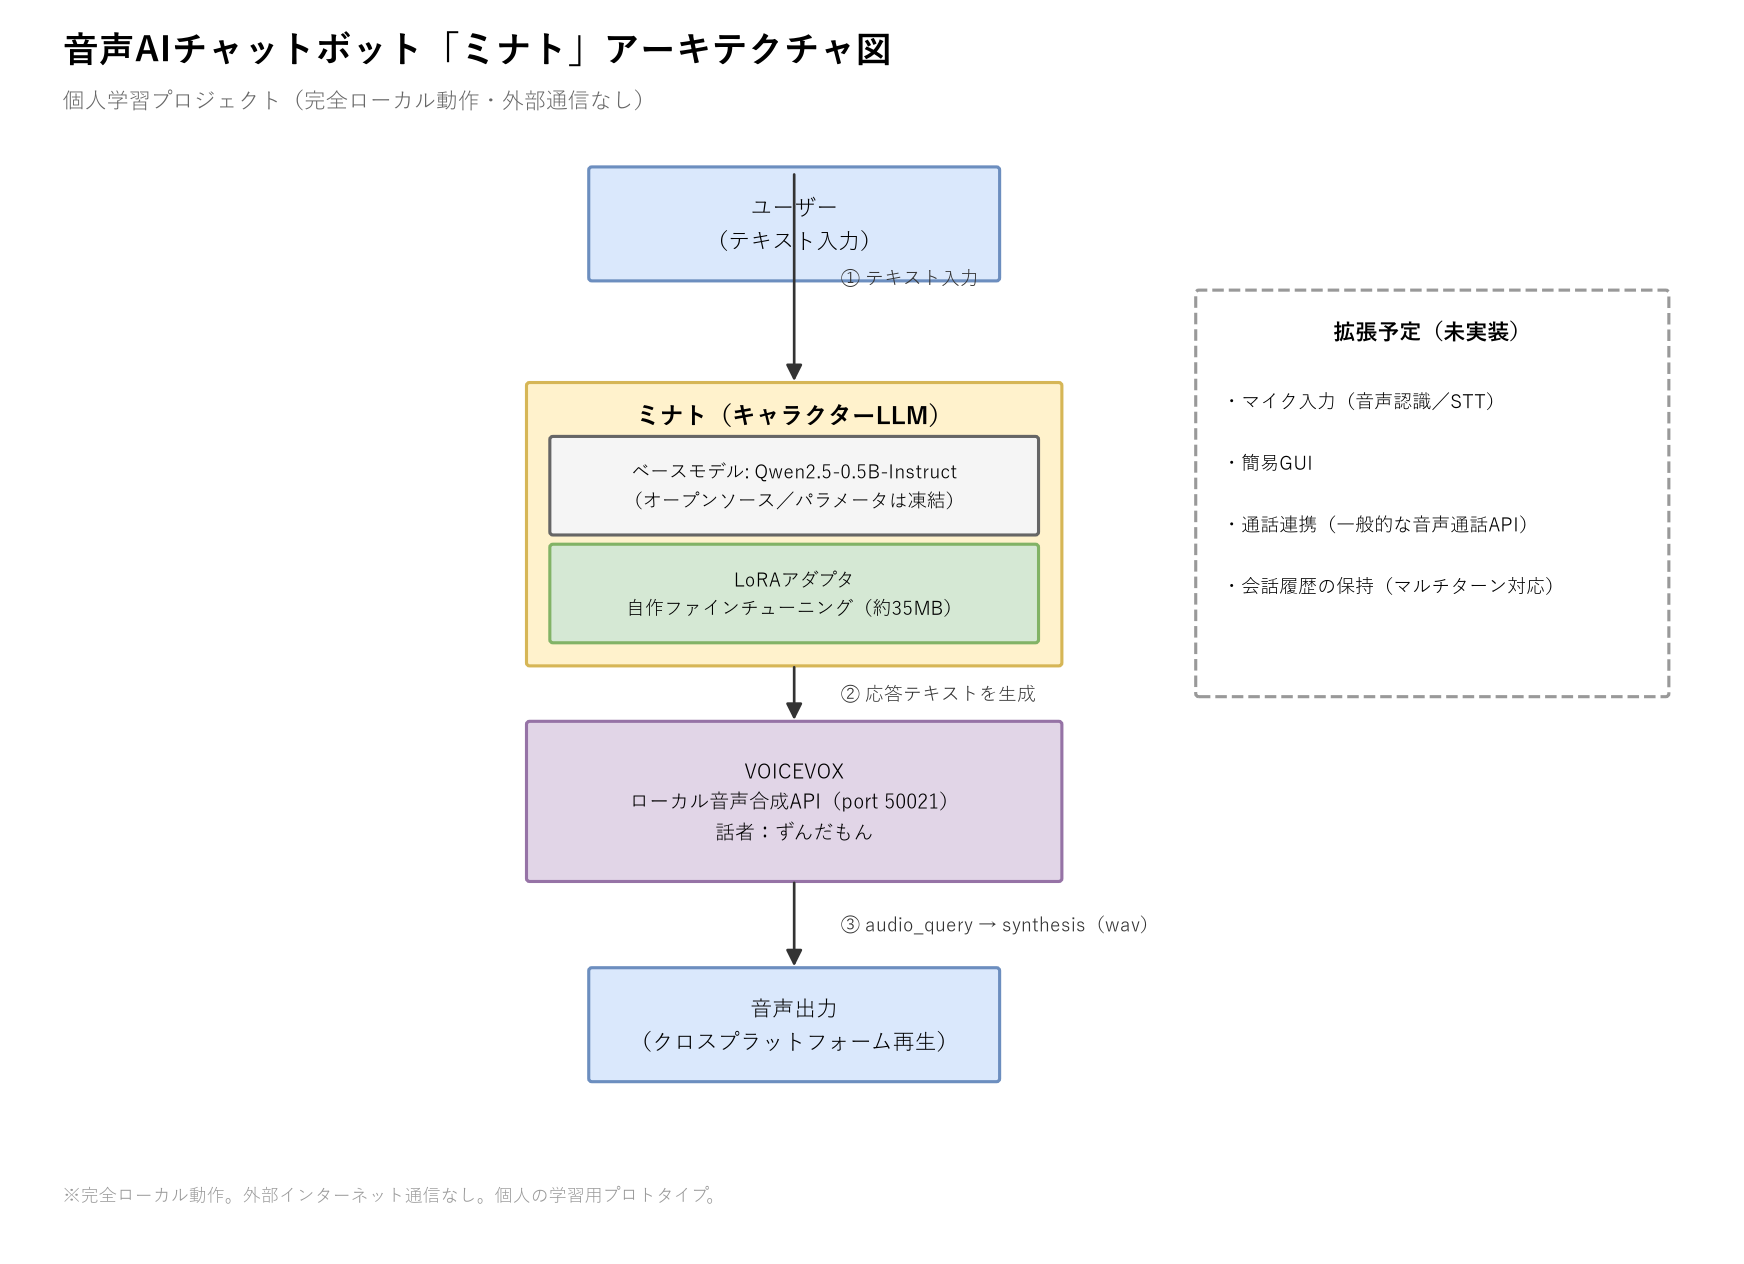
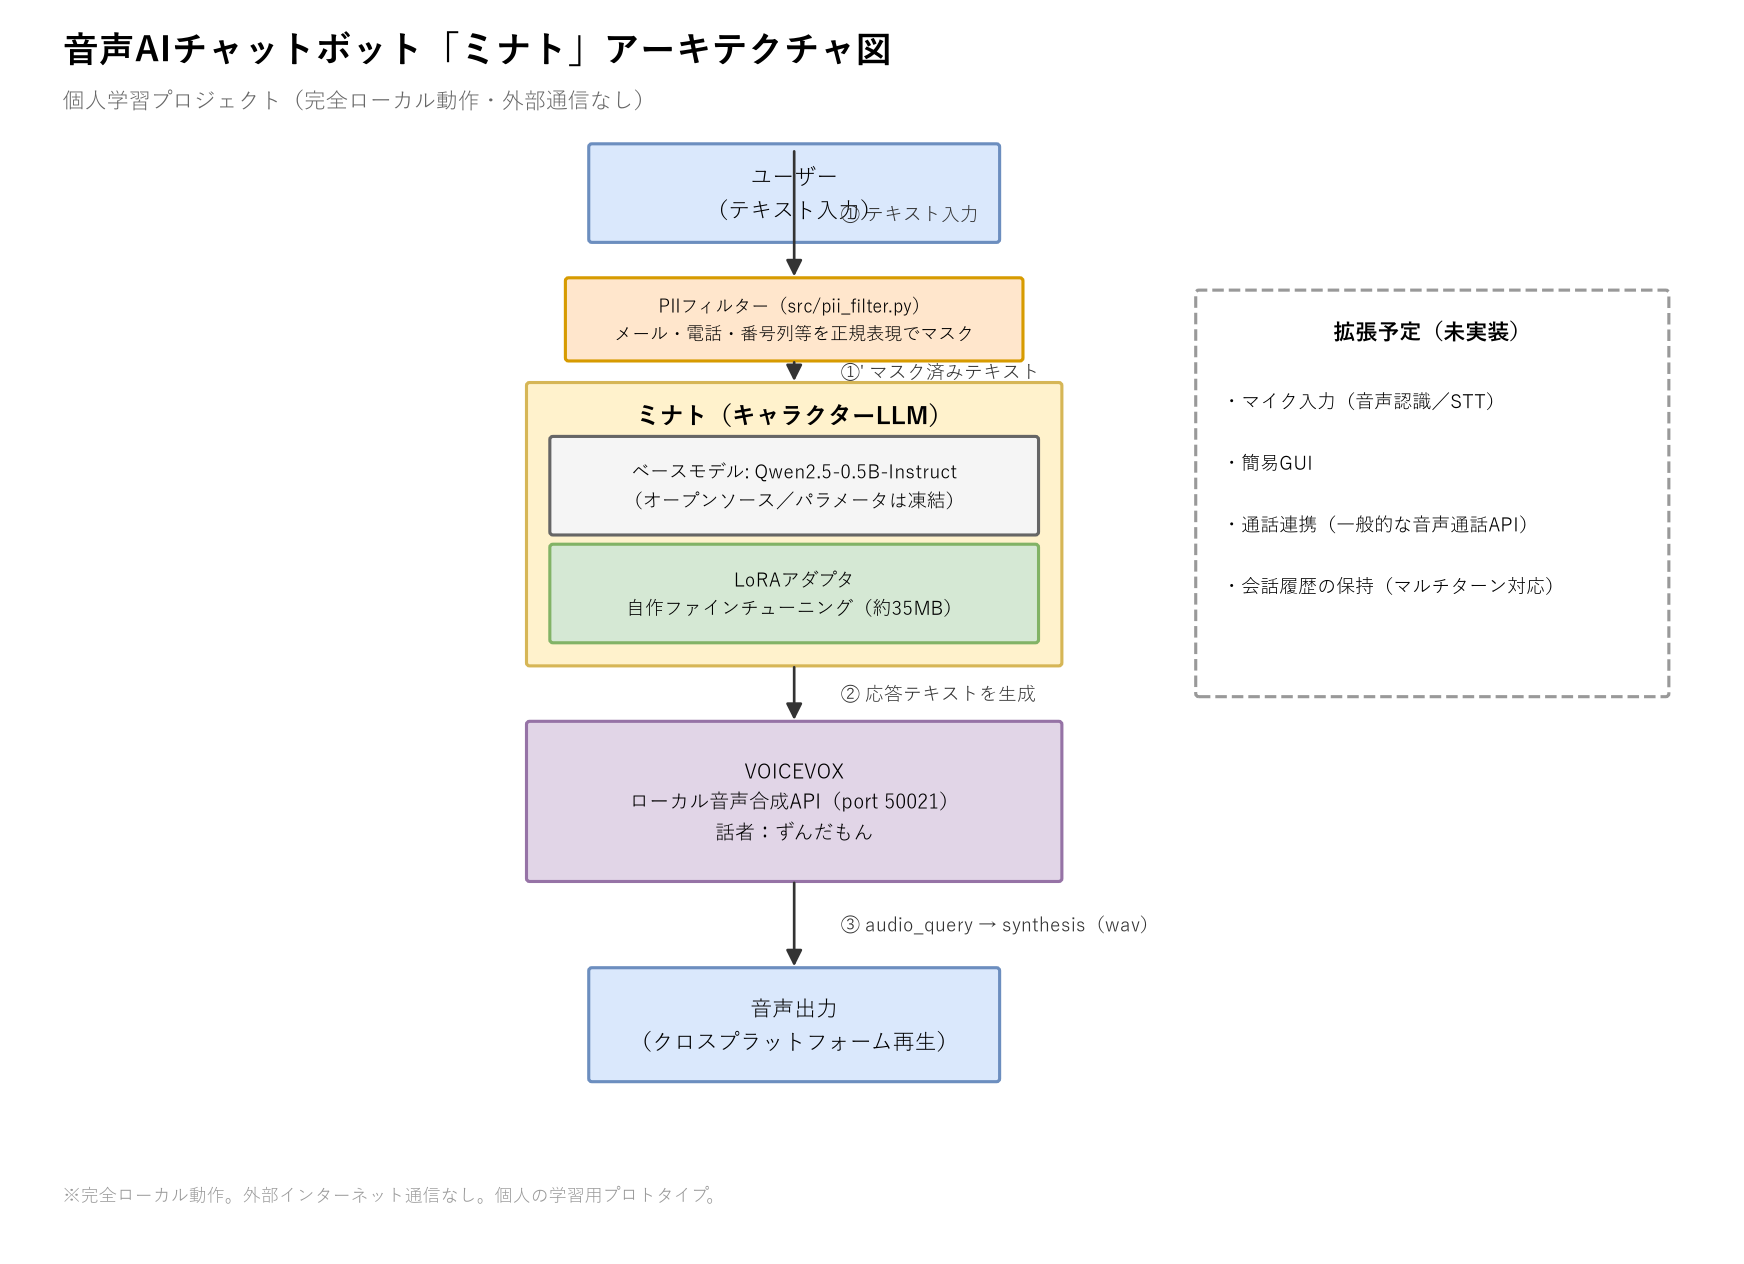
Add 3-layer PII guardrails: runtime input masking, CI scan gate, pre-commit hook
- src/pii_filter.py: mask emails/phones/digit-runs/postal codes before text
  reaches the LLM (both talk and api modes)
- scripts/check_pii.py: repo scanner with generic patterns + out-of-repo
  denylist (PII_DENYLIST secret / gitignored .pii-denylist.txt)
- CI: new pii-check job; pytest step for the filter's unit tests
- Fix: use digit-boundary lookarounds instead of \b (kanji/kana are word
  chars in Python re, so \b fails at Japanese-text boundaries)
- Architecture diagram updated with the new filter layer

Changed region(s): [[0.3096, 0.0926, 0.5883, 0.3085]]

diff --git a/scripts/check_pii.py b/scripts/check_pii.py
@@ -1,0 +1,115 @@
+"""
+Repository PII scanner — used by both pre-commit (changed files) and CI (--all).
+
+Two detection layers:
+  1. Generic structured-PII patterns (real emails, JP phone numbers, long digit
+     runs). Known-safe addresses (noreply / example.com) are allowlisted.
+  2. A personal-name denylist that is deliberately NOT stored in this public
+     repo (that would itself leak the PII). Sources, in priority order:
+       - env var PII_DENYLIST   (comma-separated terms; set as a GitHub Actions
+         secret so it is available in CI but never visible in the repo/logs)
+       - .pii-denylist.txt      (one term per line; gitignored, each
+         contributor keeps their own local copy)
+
+Findings are reported as  path:line  [label]  only — the matched text itself
+is never printed, so the scanner cannot leak what it finds.
+
+Exit code: 0 = clean, 1 = findings (blocks commit / fails CI).
+"""
+import os
+import re
+import subprocess
+import sys
+
+REPO_ROOT = os.path.dirname(os.path.dirname(os.path.abspath(__file__)))
+
+# Files the scanner must not scan: its own sources / tests contain pattern
+# examples by necessity, and model artifacts are binary.
+EXCLUDE_PREFIXES = ("out/", "tests/", ".git/")
+EXCLUDE_FILES = {"scripts/check_pii.py", "src/pii_filter.py", ".pre-commit-config.yaml"}
+EXCLUDE_SUFFIXES = (".safetensors", ".png", ".bin", ".ico", ".wav", ".pyc")
+
+EMAIL_ALLOWLIST = re.compile(
+    r"@(users\.noreply\.github\.com|example\.(com|org|net)|localhost)\b", re.IGNORECASE
+)
+
+# Digit-boundary lookarounds instead of \b: kanji/kana count as word chars in
+# Python's re, so \b silently fails to match at Japanese-text/digit boundaries.
+GENERIC_RULES: list[tuple[str, re.Pattern]] = [
+    ("email", re.compile(r"[A-Za-z0-9._%+-]+@[A-Za-z0-9.-]+\.[A-Za-z]{2,}")),
+    ("jp-phone", re.compile(r"(?<!\d)0\d{1,3}[-ー‐ ]\d{1,4}[-ー‐ ]\d{4}(?!\d)")),
+    ("long-digit-run", re.compile(r"(?<!\d)\d{4}[ -]\d{4}[ -]\d{4}(?:[ -]\d{4})?(?!\d)")),
+]
+
+
+def load_denylist() -> list[str]:
+    terms: list[str] = []
+    env = os.environ.get("PII_DENYLIST", "")
+    terms += [t.strip() for t in env.replace("\n", ",").split(",") if t.strip()]
+    local = os.path.join(REPO_ROOT, ".pii-denylist.txt")
+    if os.path.exists(local):
+        with open(local, encoding="utf-8") as f:
+            terms += [line.strip() for line in f if line.strip() and not line.startswith("#")]
+    return terms
+
+
+def iter_target_files(args: list[str]) -> list[str]:
+    if "--all" in args:
+        out = subprocess.run(
+            ["git", "ls-files"], capture_output=True, text=True, cwd=REPO_ROOT, check=True
+        ).stdout
+        files = out.splitlines()
+    else:
+        files = args
+    result = []
+    for f in files:
+        rel = os.path.relpath(f, REPO_ROOT) if os.path.isabs(f) else f
+        rel = rel.replace("\\", "/")
+        if rel.startswith(EXCLUDE_PREFIXES) or rel in EXCLUDE_FILES or rel.endswith(EXCLUDE_SUFFIXES):
+            continue
+        result.append(rel)
+    return result
+
+
+def scan_file(rel_path: str, denylist: list[str]) -> list[str]:
+    findings = []
+    path = os.path.join(REPO_ROOT, rel_path)
+    try:
+        with open(path, encoding="utf-8", errors="ignore") as f:
+            lines = f.readlines()
+    except (OSError, UnicodeError):
+        return findings
+    lowered_terms = [t.lower() for t in denylist]
+    for i, line in enumerate(lines, 1):
+        for label, pattern in GENERIC_RULES:
+            for m in pattern.finditer(line):
+                if label == "email" and EMAIL_ALLOWLIST.search(m.group(0)):
+                    continue
+                findings.append(f"{rel_path}:{i}  [{label}]")
+        low = line.lower()
+        for term in lowered_terms:
+            if term in low:
+                findings.append(f"{rel_path}:{i}  [denylist]")
+    return findings
+
+
+def main() -> int:
+    args = sys.argv[1:]
+    denylist = load_denylist()
+    if "--all" in args and not denylist:
+        print("note: no denylist loaded (PII_DENYLIST unset and no .pii-denylist.txt) "
+              "— running generic patterns only")
+    all_findings: list[str] = []
+    for rel in iter_target_files(args):
+        all_findings += scan_file(rel, denylist)
+    if all_findings:
+        print("PII scan FAILED — remove or mask the following before committing:")
+        for f in sorted(set(all_findings)):
+            print("  " + f)
+        return 1
+    print("PII scan passed.")
+    return 0
+
+
+if __name__ == "__main__":
+    sys.exit(main())

diff --git a/tests/test_pii_filter.py b/tests/test_pii_filter.py
@@ -1,0 +1,59 @@
+import os
+import sys
+
+sys.path.insert(0, os.path.join(os.path.dirname(os.path.dirname(os.path.abspath(__file__))), "src"))
+
+from pii_filter import mask_pii  # noqa: E402
+
+
+def test_email_masked():
+    masked, found = mask_pii("連絡先は [email redacted] です")
+    assert "[email redacted]" not in masked
+    assert "[メールアドレス]" in masked
+    assert "メールアドレス" in found
+
+
+def test_phone_masked():
+    masked, found = mask_pii("電話は090-1234-5678にください")
+    assert "090-1234-5678" not in masked
+    assert "[電話番号]" in masked
+
+
+def test_phone_with_spaces_masked():
+    masked, _ = mask_pii("固定は03 1234 5678です")
+    assert "1234" not in masked
+
+
+def test_twelve_digit_number_masked():
+    masked, found = mask_pii("番号は 1234 5678 9012 です")
+    assert "9012" not in masked
+    assert "12桁の番号" in found
+
+
+def test_card_number_masked_as_card_not_partial():
+    masked, found = mask_pii("カードは 4111 1111 1111 1111")
+    assert "1111" not in masked
+    assert "カード番号" in found
+
+
+def test_postal_code_masked():
+    masked, _ = mask_pii("住所は〒160-0023 東京都新宿区")
+    assert "160-0023" not in masked
+
+
+def test_clean_text_unchanged():
+    text = "今日はいい天気ですね。VOICEVOXのポートは50021です。"
+    masked, found = mask_pii(text)
+    assert masked == text
+    assert found == []
+
+
+def test_version_numbers_not_masked():
+    text = "torch 2.6.0 と transformers 5.12.1 を使う"
+    masked, _ = mask_pii(text)
+    assert masked == text
+
+
+def test_multiple_pii_types():
+    masked, found = mask_pii("[email redacted] へ連絡、電話は0312345678")
+    assert len(found) == 2

diff --git a/src/pii_filter.py b/src/pii_filter.py
@@ -1,0 +1,39 @@
+"""
+Regex-based PII masking applied to every user input BEFORE it reaches the LLM.
+
+Design notes:
+  - Pattern order matters: longer / more specific patterns run first so that a
+    16-digit card number is not partially consumed by the 12-digit rule, and a
+    phone number is not mislabeled as a postal code.
+  - This is a lightweight guard for a hobby project, not a compliance-grade
+    redactor: it catches *structured* PII (emails, phone numbers, long digit
+    sequences, postal codes). Free-form names cannot be reliably detected by
+    regex and are out of scope here (see CONTRIBUTING.md for the repo-level
+    denylist that covers that gap at CI time).
+"""
+import re
+
+# (label, pattern) — evaluated in order, each match replaced with [label].
+# NOTE: \b does NOT work as a digit boundary in Japanese text (kanji/kana are
+# word characters in Python's re), so digit-boundary lookarounds are used.
+_RULES: list[tuple[str, re.Pattern]] = [
+    ("メールアドレス", re.compile(r"[A-Za-z0-9._%+-]+@[A-Za-z0-9.-]+\.[A-Za-z]{2,}")),
+    ("カード番号", re.compile(r"(?<!\d)\d{4}[ -]?\d{4}[ -]?\d{4}[ -]?\d{4}(?!\d)")),
+    ("12桁の番号", re.compile(r"(?<!\d)\d{4}[ -]?\d{4}[ -]?\d{4}(?!\d)")),  # マイナンバー等
+    ("電話番号", re.compile(r"(?<!\d)0\d{1,3}[-ー‐ ]?\d{1,4}[-ー‐ ]?\d{4}(?!\d)")),
+    ("郵便番号", re.compile(r"〒\s?\d{3}[-ー‐]\d{4}|(?<!\d)\d{3}[-ー‐]\d{4}(?!\d)")),
+]
+
+
+def mask_pii(text: str) -> tuple[str, list[str]]:
+    """Return (masked_text, list_of_detected_labels).
+
+    The label list is for user feedback ("masked an email address") and never
+    contains the matched value itself.
+    """
+    found: list[str] = []
+    for label, pattern in _RULES:
+        if pattern.search(text):
+            found.append(label)
+            text = pattern.sub(f"[{label}]", text)
+    return text, found

diff --git a/src/api.py b/src/api.py
@@ -24,6 +24,7 @@ import requests  # noqa: E402
 import torch  # noqa: E402
 from flask import Flask, Response, jsonify, request  # noqa: E402
 from peft import PeftModel  # noqa: E402
+from pii_filter import mask_pii  # noqa: E402
 from transformers import AutoModelForCausalLM, AutoTokenizer  # noqa: E402
 
 BASE_MODEL = "Qwen/Qwen2.5-0.5B-Instruct"
@@ -78,13 +79,16 @@ def chat():
     if not text:
         return jsonify({"error": "text is required"}), 400
 
+    # PII is masked BEFORE the text reaches the LLM (and thus before any
+    # downstream logging or synthesis can see it).
+    text, pii_found = mask_pii(text)
+
     reply = generate_reply(text)
     wav = synthesize(reply, SPEAKER)
-    return Response(
-        wav,
-        mimetype="audio/wav",
-        headers={"X-Minato-Reply-Text": quote(reply)},
-    )
+    headers = {"X-Minato-Reply-Text": quote(reply)}
+    if pii_found:
+        headers["X-Minato-PII-Masked"] = quote(",".join(pii_found))
+    return Response(wav, mimetype="audio/wav", headers=headers)
 
 
 if __name__ == "__main__":

diff --git a/architecture/generate_architecture_diagram.py b/architecture/generate_architecture_diagram.py
@@ -15,6 +15,7 @@ OUT = sys.argv[1] if len(sys.argv) > 1 else "minato_architecture.png"
 
 COLORS = {
     "io": ("#DAE8FC", "#6C8EBF"),
+    "guard": ("#FFE6CC", "#D79B00"),
     "llm_box": ("#FFF2CC", "#D6B656"),
     "base": ("#F5F5F5", "#666666"),
     "lora": ("#D5E8D4", "#82B366"),
@@ -53,10 +54,12 @@ def main():
     ax.text(0.3, 7.4, "個人学習プロジェクト（完全ローカル動作・外部通信なし）", fontsize=10, color="#666666")
 
     fill, edge = COLORS["io"]
-    _, user_bottom = box(ax, (3.7, 6.3), 2.6, 0.7, "ユーザー\n（テキスト入力）", fill, edge)
+    _, user_bottom = box(ax, (3.7, 6.55), 2.6, 0.6, "ユーザー\n（テキスト入力）", fill, edge)
+
+    fill, edge = COLORS["guard"]
+    box(ax, (3.55, 5.78), 2.9, 0.5, "PIIフィルター（src/pii_filter.py）\nメール・電話・番号列等を正規表現でマスク", fill, edge, fontsize=8)
 
     fill, edge = COLORS["llm_box"]
-    llm_top = (5.0, 5.6)
     box(ax, (3.3, 3.8), 3.4, 1.8, "", fill, edge)
     ax.text(5.0, 5.35, "ミナト（キャラクターLLM）", fontsize=11, fontweight="bold", ha="center")
 
@@ -72,7 +75,8 @@ def main():
     fill, edge = COLORS["io"]
     _, out_top = box(ax, (3.7, 1.1), 2.6, 0.7, "音声出力\n（クロスプラットフォーム再生）", fill, edge)
 
-    arrow(ax, user_bottom, (5.0, 5.6), "① テキスト入力")
+    arrow(ax, user_bottom, (5.0, 6.28), "① テキスト入力")
+    arrow(ax, (5.0, 5.78), (5.0, 5.6), "①' マスク済みテキスト")
     arrow(ax, (5.0, 3.8), (5.0, 3.4), "② 応答テキストを生成")
     arrow(ax, (5.0, 2.4), (5.0, 1.8), "③ audio_query → synthesis（wav）")
 

diff --git a/src/minato_talk.py b/src/minato_talk.py
@@ -29,6 +29,7 @@ import soundfile as sf  # noqa: E402
 import sounddevice as sd  # noqa: E402
 import torch  # noqa: E402
 from peft import PeftModel  # noqa: E402
+from pii_filter import mask_pii  # noqa: E402
 from transformers import AutoModelForCausalLM, AutoTokenizer  # noqa: E402
 
 BASE_MODEL = "Qwen/Qwen2.5-0.5B-Instruct"
@@ -113,6 +114,9 @@ def main():
             break
         if not user_text:
             continue
+        user_text, pii_found = mask_pii(user_text)
+        if pii_found:
+            print(f"（入力内の {'/'.join(pii_found)} をマスクしました）")
         reply = generate_reply(tok, model, user_text)
         print(f"ミナト: {reply}")
         synthesize_and_play(reply, args.speaker)

diff --git a/CONTRIBUTING.md b/CONTRIBUTING.md
@@ -13,6 +13,22 @@
   git config user.email "<GitHubID>+<username>@users.noreply.github.com"
   ```
 
+### PIIガード（3層・自動）
+
+| 層 | 仕組み | 強制力 |
+|---|---|---|
+| ランタイム | `src/pii_filter.py` がチャット入力のメール/電話/番号列等をLLMに渡る前にマスク | コード組込み（常時） |
+| CI | `pii-check` ジョブがリポジトリ全体をスキャン。検出時はマージ不可 | ルールセットで強制 |
+| pre-commit | コミット時にローカルで同じスキャンを実行（早期警告） | 要インストール（下記） |
+
+**pre-commitのセットアップ（初回のみ・推奨）:**
+```bash
+pip install -r requirements-dev.txt
+pre-commit install
+```
+
+**自分の名前を検出対象に足す:** リポジトリ直下に `.pii-denylist.txt`（gitignore済み）を作り、1行1語で自分の本名・ハンドル名を書いてください。このファイルはコミットされず、あなたのマシン上でのみスキャンに使われます。CI側は同じ内容をリポジトリSecret `PII_DENYLIST` で保持しています（新しい作業者が入ったらSecretにも追記）。
+
 ## 開発フロー
 
 `main` への直接pushは**ルールセットでブロック**されています。必ず:

diff --git a/AGENTS.md b/AGENTS.md
@@ -39,3 +39,9 @@ python architecture/generate_architecture_diagram.py  # 構成図PNG再生成
 - torch は requirements.txt では CPU版。CUDA版をrequirementsに入れないこと（ポータビリティ優先）
 - モデルの応答品質は19件学習の範囲が限界。訓練外の質問への誤答は既知の制約であり、バグ扱いしない
 - 構成を変えたら `architecture/` の図も更新すること
+
+## PIIガード（必ず維持すること）
+
+- `src/pii_filter.py`: 全ユーザー入力はLLMに渡る前にこれでマスクされる。talk/apiの両モードで呼び出しを外さないこと
+- `scripts/check_pii.py`: CIの `pii-check` ジョブとpre-commitが使う。検出語はSecret `PII_DENYLIST` とローカル `.pii-denylist.txt`（gitignore済み）から読む — **検出語をリポジトリ内に書かないこと**（それ自体がPII漏洩になる）
+- 正規表現で `` を日本語文字と数字の境界に使わない（漢字・かなは\wに含まれ境界が発生しない）。数字境界は `(?<!\d)` / `(?!\d)` を使う

diff --git a/CLAUDE.md b/CLAUDE.md
@@ -39,3 +39,9 @@ python architecture/generate_architecture_diagram.py  # 構成図PNG再生成
 - torch は requirements.txt では CPU版。CUDA版をrequirementsに入れないこと（ポータビリティ優先）
 - モデルの応答品質は19件学習の範囲が限界。訓練外の質問への誤答は既知の制約であり、バグ扱いしない
 - 構成を変えたら `architecture/` の図も更新すること
+
+## PIIガード（必ず維持すること）
+
+- `src/pii_filter.py`: 全ユーザー入力はLLMに渡る前にこれでマスクされる。talk/apiの両モードで呼び出しを外さないこと
+- `scripts/check_pii.py`: CIの `pii-check` ジョブとpre-commitが使う。検出語はSecret `PII_DENYLIST` とローカル `.pii-denylist.txt`（gitignore済み）から読む — **検出語をリポジトリ内に書かないこと**（それ自体がPII漏洩になる）
+- 正規表現で `` を日本語文字と数字の境界に使わない（漢字・かなは\wに含まれ境界が発生しない）。数字境界は `(?<!\d)` / `(?!\d)` を使う